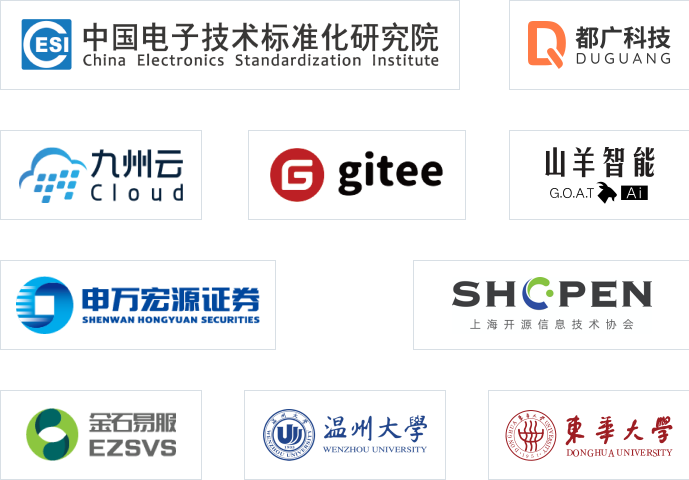
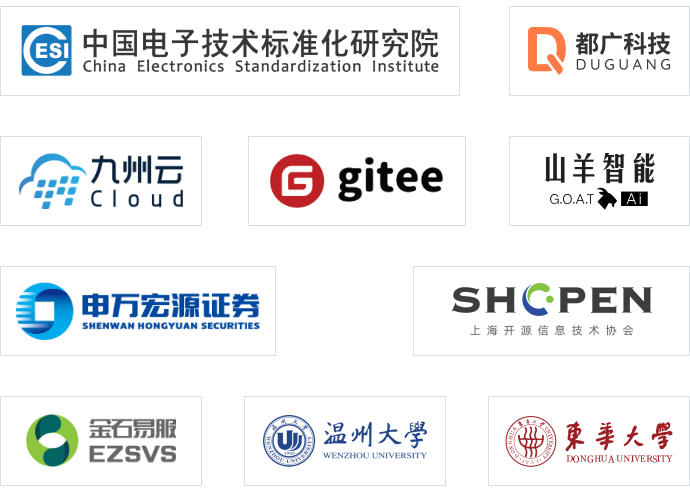
fix: 合作伙伴部分样式调整

diff --git a/src/views/wap/official-product.vue b/src/views/wap/official-product.vue
@@ -194,7 +194,8 @@ const contribution = () => {
   height: 607px;
   padding: 0 30px;
   background: url('@/assets/wap/svgs/participating-units.svg');
-  background-size: 100%;
+  background-repeat: no-repeat;
+  background-size: cover;
   margin-bottom: 60px;
 
   .participating-units-title {
@@ -203,8 +204,8 @@ const contribution = () => {
     margin-bottom: 45px;
   }
   .participating-units-imgs{
-    width: 689px;
-    height: 480px;
+    width: 690px;
+    height: 492px;
     background-image: url("@/assets/wap/pngs/cooperation.png");
     background-size: 100%;
   }
